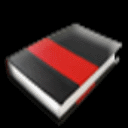
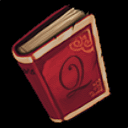
added 6 OP variants of the tomes from AAR

diff --git a/CHANGELOG.md b/CHANGELOG.md
@@ -6,7 +6,7 @@ All notable changes to this project will be documented in this file.
 - Removed the backpack blocking items from the bots, they dont seem to need them anymore. 
 - Added OP Walrus Kick
 - Timbersaw's perk no longer gives EXP but now gives 1% of Timbersaws max health/mana. 
-- Added 6 Tomes from Angel Arena Reborn (as abilities not items)
+- Added 6 Tomes from Angel Arena Reborn (as abilities not items). Also an additional 6 OP Variants. 
 
 ## 6.5 - Steam Version
 ### Bug Fixing/New Features
